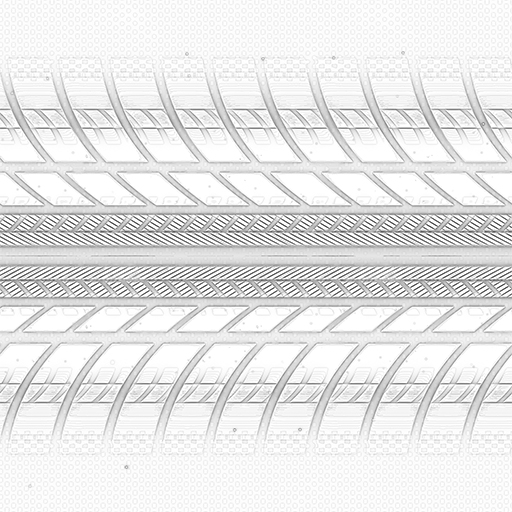
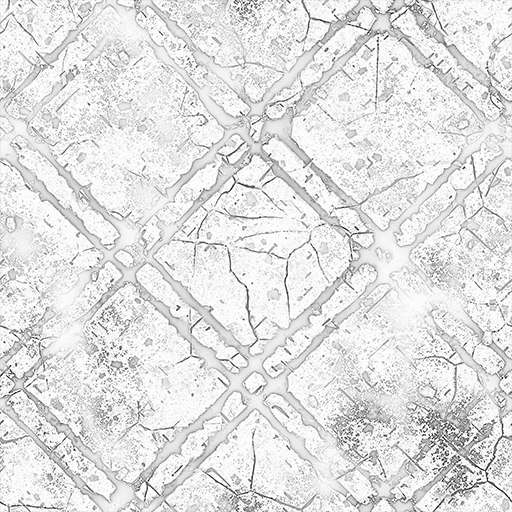
Pre Track

diff --git a/src/scenes/Track.tsx b/src/scenes/Track.tsx
@@ -88,6 +88,7 @@ export default class TrackScene extends Scene {
     samplers: {[name: string]: WebGLSampler} = {};
     materials: Material[] = [];
     time: number;
+    move:boolean;
 
     lights: Light[] = [
         { type: "ambient", enabled: true, skyColor: vec3.fromValues(0.4, 0.3, 0.4), groundColor: vec3.fromValues(0.1, 0.1, 0.1), skyDirection: vec3.fromValues(0,1,0)},
@@ -130,6 +131,26 @@ export default class TrackScene extends Scene {
     
     public start(): void {
         this.time = 0;
+        document.addEventListener("keydown", (ev)=>{
+            switch(ev.key){
+                case Key.Enter:
+                    console.log('a7a enter down');
+                    this.move = true;
+                    break;
+                case ' ':
+                    ev.preventDefault();
+            }
+        })
+        document.addEventListener("keyup", (ev)=>{
+            switch(ev.key){
+                case Key.Enter:
+                    console.log('a7a enter up');
+                    this.move = false;
+                    break;
+                case ' ':
+                    ev.preventDefault();
+            }
+        })
         // For each light type, compile and link a shader
         for(let type of ['ambient', 'directional', 'point', 'spot']){
             this.programs[type] = new ShaderProgram(this.gl);
@@ -170,70 +191,17 @@ export default class TrackScene extends Scene {
 
 
 
-        this.materials.push({
-                albedo: this.textures['bricks.albedo'],
-                albedo_tint: vec3.fromValues(1, 1, 1),
-                specular: this.textures['bricks.specular'],
-                specular_tint: vec3.fromValues(1, 1, 1),
-                roughness: this.textures['bricks.roughness'],
-                roughness_scale: 1,
-                emissive: this.textures['black'],
-                emissive_tint: vec3.fromValues(1, 1, 1),
-                ambient_occlusion: this.textures['bricks.ao']});
-
-        this.materials.push({
-                albedo: this.textures['tire.albedo'],
-                albedo_tint: vec3.fromValues(1, 1, 1),
-                specular: this.textures['tire.specular'],
-                specular_tint: vec3.fromValues(1, 1, 1),
-                roughness: this.textures['tire.roughness'],
-                roughness_scale: 1,
-                emissive: this.textures['black'],
-                emissive_tint: vec3.fromValues(1, 1, 1),
-                ambient_occlusion: this.textures['tire.ao']});
-
-        this.materials.push({
-                albedo: this.textures['rune.albedo'],
-                albedo_tint: vec3.fromValues(1, 1, 1),
-                specular: this.textures['rune.specular'],
-                specular_tint: vec3.fromValues(1, 1, 1),
-                roughness: this.textures['rune.roughness'],
-                roughness_scale: 1,
-                emissive: this.textures['black'],
-                emissive_tint: vec3.fromValues(1, 1, 1),
-                ambient_occlusion: this.textures['rune.ao']});
-
-        this.materials.push({
-                albedo: this.textures['wood.albedo'],
-                albedo_tint: vec3.fromValues(1, 1, 1),
-                specular: this.textures['wood.specular'],
-                specular_tint: vec3.fromValues(1, 1, 1),
-                roughness: this.textures['wood.roughness'],
-                roughness_scale: 1,
-                emissive: this.textures['black'],
-                emissive_tint: vec3.fromValues(1, 1, 1),
-                ambient_occlusion: this.textures['wood.ao']});
-
-        this.materials.push({
-                albedo: this.textures['snow.albedo'],
-                albedo_tint: vec3.fromValues(1, 1, 1),
-                specular: this.textures['snow.specular'],
-                specular_tint: vec3.fromValues(1, 1, 1),
-                roughness: this.textures['snow.roughness'],
-                roughness_scale: 1,
-                emissive: this.textures['black'],
-                emissive_tint: vec3.fromValues(1, 1, 1),
-                ambient_occlusion: this.textures['snow.ao']});          
+                  
                 
         // Create the 3D ojbects
        this.objects['ground'] = {
             mesh: this.meshes['ground'],
             material: {
-                albedo: this.textures['ground.albedo'],
+                albedo: this.textures['snow.albedo'],
                 albedo_tint: vec3.fromValues(1, 1, 1),
-                specular: this.textures['ground.specular'],
+                specular: this.textures['snow.specular'],
                 specular_tint: vec3.fromValues(1, 1, 1),
-                roughness: this.textures['ground.roughness'],
+                roughness: this.textures['snow.roughness'],
                 roughness_scale: 1,
                 emissive: this.textures['black'],
                 emissive_tint: vec3.fromValues(1, 1, 1),
@@ -244,7 +212,7 @@ export default class TrackScene extends Scene {
 
         this.objects['player'] = {
             mesh: this.meshes['player'],
-            material: this.materials['player'],
+            material: this.game.playerMat,
             modelMatrix: mat4.create()
         };
 
@@ -261,7 +229,7 @@ export default class TrackScene extends Scene {
         // Create a camera and a controller
         this.camera = new Camera();
         this.camera.type = 'perspective';
-        this.camera.position = vec3.fromValues(0,3,2);
+        this.camera.position = vec3.fromValues(0,5,3);
         this.camera.direction = vec3.fromValues(0,-1,-1);
         this.camera.aspectRatio = this.gl.drawingBufferWidth/this.gl.drawingBufferHeight;
         
@@ -281,12 +249,17 @@ export default class TrackScene extends Scene {
 
     }
     
-    public draw(deltaTime: number): void {
+    public draw(deltaTime: number): void
+    {
         this.controller.update(deltaTime); // Update camera
-        this.time +=deltaTime;
+        if(this.move)
+            this.time +=deltaTime;
         this.gl.clear(this.gl.COLOR_BUFFER_BIT | this.gl.DEPTH_BUFFER_BIT); // Clear color and depth
+       
+
         this.objects['ground'].modelMatrix = mat4.fromRotationTranslationScale(mat4.create(), quat.create(), vec3.fromValues(0, 0, this.time/100), vec3.fromValues(3.5, 1, 1000));
-        this.objects['player'].modelMatrix = mat4.fromRotationTranslationScale(mat4.create(), quat.fromEuler(quat.create(), -360*this.time/1000, 0, 0), vec3.fromValues(0, 0.09, 0), vec3.fromValues(0.35, 0.35, 0.35))
+        this.objects['player'].modelMatrix = mat4.fromRotationTranslationScale(mat4.create(), quat.fromEuler(quat.create(), -360*this.time/1000, 0, 0), vec3.fromValues(0, 0, 0), vec3.fromValues(1, 1, 1))
+
         let first_light = true;
 
         for(const light of this.lights){
@@ -331,7 +304,6 @@ export default class TrackScene extends Scene {
                 }
             }
 
-            this.objects['player'].material = this.materials[2]; //TODO Let material == to currM in choosematerial scene
             for(let name in this.objects){
                 let obj = this.objects[name];
 

diff --git a/src/scenes/ChooseMaterial.tsx b/src/scenes/ChooseMaterial.tsx
@@ -133,6 +133,26 @@ export default class ChooseMaterialScene extends Scene {
     } 
     
     public start(): void {
+        document.addEventListener("keydown", (ev)=>{
+            if(this.game.currentScene == this.game.scenes["Choose Material"])
+            {
+            switch(ev.key){
+                
+                case Key.Enter:
+                    this.game.playerMat = this.materials[this.currM];
+                    this.game.startScene("Track");
+                    break;
+                case Key.ArrowLeft:
+                    this.currM = (this.currM - 1 + this.materials.length) % this.materials.length;
+                    break;
+                case Key.ArrowRight:
+                    this.currM = (this.currM + 1) % this.materials.length;
+                    break;
+                case ' ':
+                    ev.preventDefault();
+            }
+            }
+        })
         this.currM = 0;
         this.time = 0;
         const canvas: HTMLCanvasElement = document.querySelector("#text");
@@ -143,25 +163,7 @@ export default class ChooseMaterialScene extends Scene {
         ctx.fillText("CHOOSE THE PLAYER'S MATERIAL", canvas.width/2, canvas.height/4);
         ctx.font = "25px Squada One";
         ctx.fillText("USE ARROWS TO CHANGE MATERIAL", canvas.width/2, 3*canvas.height/4);
-        document.addEventListener("keydown", (ev)=>{
-
-            switch(ev.key){
-                case Key.ArrowUp:
-                    break;
-                case Key.ArrowDown:
-                    break;
-                case Key.ArrowLeft:
-                    this.currM = (this.currM - 1 + this.materials.length) % this.materials.length;
-                    console.log(this.currM);
-                    break;
-                case Key.ArrowRight:
-                    this.currM = (this.currM + 1) % this.materials.length;
-                    console.log(this.currM);
-                    break;
-                case ' ':
-                    ev.preventDefault();
-            }
-        }
+     
         // For each light type, compile and link a shader
         for(let type of ['ambient', 'directional', 'point', 'spot']){
             this.programs[type] = new ShaderProgram(this.gl);
@@ -257,22 +259,6 @@ export default class ChooseMaterialScene extends Scene {
                 emissive_tint: vec3.fromValues(1, 1, 1),
                 ambient_occlusion: this.textures['snow.ao']});          
                 
-        // Create the 3D ojbects
-       /* this.objects['ground'] = {
-            mesh: this.meshes['ground'],
-            material: {
-                albedo: this.textures['ground.albedo'],
-                albedo_tint: vec3.fromValues(1, 1, 1),
-                specular: this.textures['ground.specular'],
-                specular_tint: vec3.fromValues(1, 1, 1),
-                roughness: this.textures['ground.roughness'],
-                roughness_scale: 1,
-                emissive: this.textures['black'],
-                emissive_tint: vec3.fromValues(1, 1, 1),
-                ambient_occlusion: this.textures['white']
-            },
-            modelMatrix: mat4.fromRotationTranslationScale(mat4.create(), quat.create(), vec3.fromValues(0, 0, 0), vec3.fromValues(100, 1, 100))
-        };*/
 
         this.objects['player'] = {
             mesh: this.meshes['player'],

diff --git a/src/scenes/06-TexturedMaterials.tsx b/src/scenes/06-TexturedMaterials.tsx
@@ -112,18 +112,19 @@ export default class TexturedMaterialsScene extends Scene {
             ["directional.frag"]:{url:'shaders/phong/textured-materials/directional.frag', type:'text'},
             ["point.frag"]:{url:'shaders/phong/textured-materials/point.frag', type:'text'},
             ["spot.frag"]:{url:'shaders/phong/textured-materials/spot.frag', type:'text'},
-            ["suzanne"]:{url:'models/Suzanne/Suzanne.obj', type:'text'},
+            ["suzanne"]:{url:'models/obstacles/1.obj', type:'text'},
+            ["ob"]:{url:'models/obstacles/1.obj', type:'text'},
             ["asphalt.albedo"]:{url:'images/Asphalt/albedo.jpg', type:'image'},
             ["asphalt.emissive"]:{url:'images/Asphalt/emissive.jpg', type:'image'},
             ["asphalt.roughness"]:{url:'images/Asphalt/roughness.jpg', type:'image'},
             ["asphalt.specular"]:{url:'images/Asphalt/specular.jpg', type:'image'},
-            ["metal.albedo"]:{url:'images/Metal/albedo.jpg', type:'image'},
-            ["metal.roughness"]:{url:'images/Metal/roughness.jpg', type:'image'},
-            ["metal.specular"]:{url:'images/Metal/specular.jpg', type:'image'},
+            ["metal.albedo"]:{url:'images/rune/albedo.jpg', type:'image'},
+            ["metal.roughness"]:{url:'images/rune/roughness.jpg', type:'image'},
+            ["metal.specular"]:{url:'images/rune/specular.jpg', type:'image'},
             ["wood.albedo"]:{url:'images/Wood/albedo.jpg', type:'image'},
             ["wood.roughness"]:{url:'images/Wood/roughness.jpg', type:'image'},
             ["wood.specular"]:{url:'images/Wood/specular.jpg', type:'image'},
-            ["suzanne.ao"]:{url:'images/Suzanne/ambient_occlusion.jpg', type:'image'},
+            ["suzanne.ao"]:{url:'images/rune/ao.jpg', type:'image'},
         });
     } 
     

diff --git a/src/common/game.ts b/src/common/game.ts
@@ -27,7 +27,7 @@ export default class Game {
     nextScene: Scene = null; // The scene that will replace the current scene after its files have been loaded
     nextSceneReady: boolean = false; // Whether the files requested by the next scene has been loaded or not 
     lastTick: number; // The time of the last frame in milliseconds (used to calculate delta time)
-
+    playerMat : any;
     constructor(canvas: HTMLCanvasElement){
         this.canvas = canvas;
         this.gl = this.canvas.getContext("webgl2", {

diff --git a/src/app.ts b/src/app.ts
@@ -30,7 +30,7 @@ const scenes = {
     "Shadow Mapping": ShadowMappingScene,
     "Game": GameScene
 };
-const initialScene = "Track";
+const initialScene = "Choose Material";
 
 // Then we add those scenes to the game object and ask it to start the initial scene
 game.addScenes(scenes);
